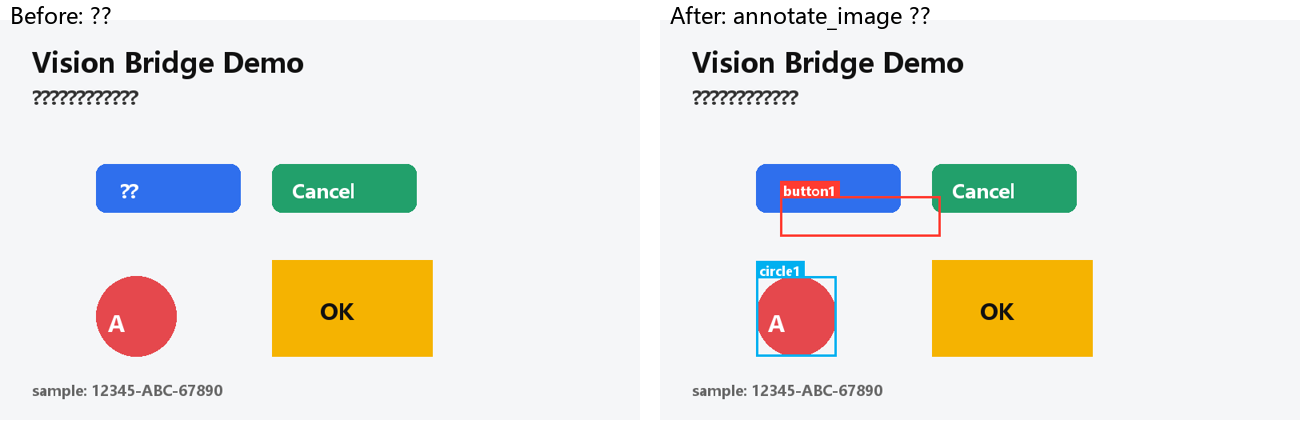
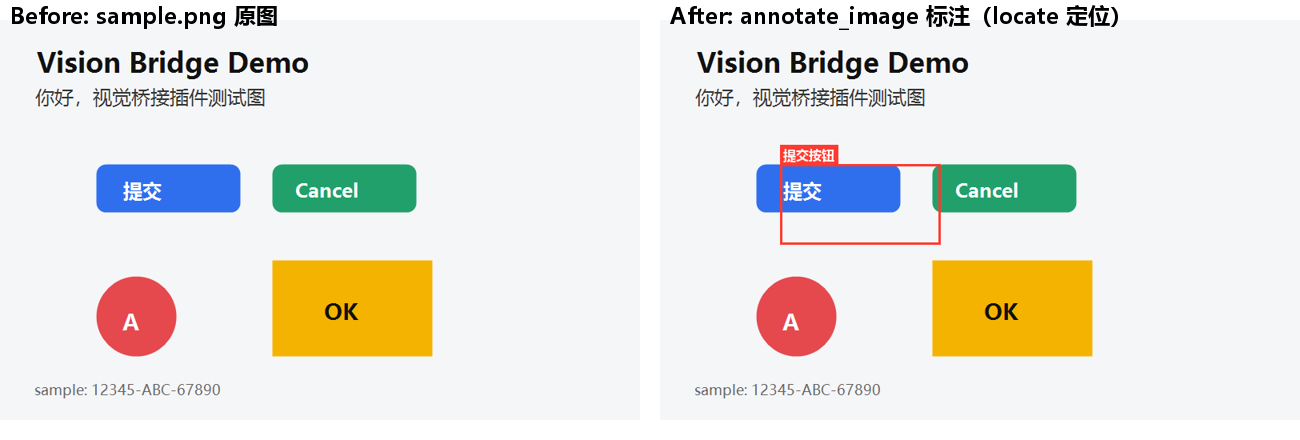
v1.4: fix sample.png CJK rendering (GDI+), correct OCR conclusion

diff --git a/README.md b/README.md
@@ -162,3 +162,8 @@ scan_anomalies(image, target="摆放歪斜、方向与周边不一致的元件",
 
 - 新增 `compare_images`：2-4 张图多图对比（A/B 截图、设计稿一致性、多帧分析），图片以多图消息原生送入 MiMo，不拼接不降质；带缓存与参数校验
 - 测试增至 **62 项**（mock，不依赖真实 key）
+## v1.4（2026-08-02）
+
+- **修复 `sample.png` 中文渲染**：原测试图用 PIL 生成时 CJK 被渲染为 notdef（`?`），导致早期得出"中文 OCR 弱"的错误结论；改用 GDI+（System.Drawing）生成，中文显示与识别均正常
+- **修正实测结论**：MiMo V2.5 中文 OCR 正常（高铁站 LED 屏车次/站名、中文按钮文字均正确读取）
+- 演示图基于修复后的 `sample.png` 重新生成（标注框来自真实 `locate_object` 定位结果）
